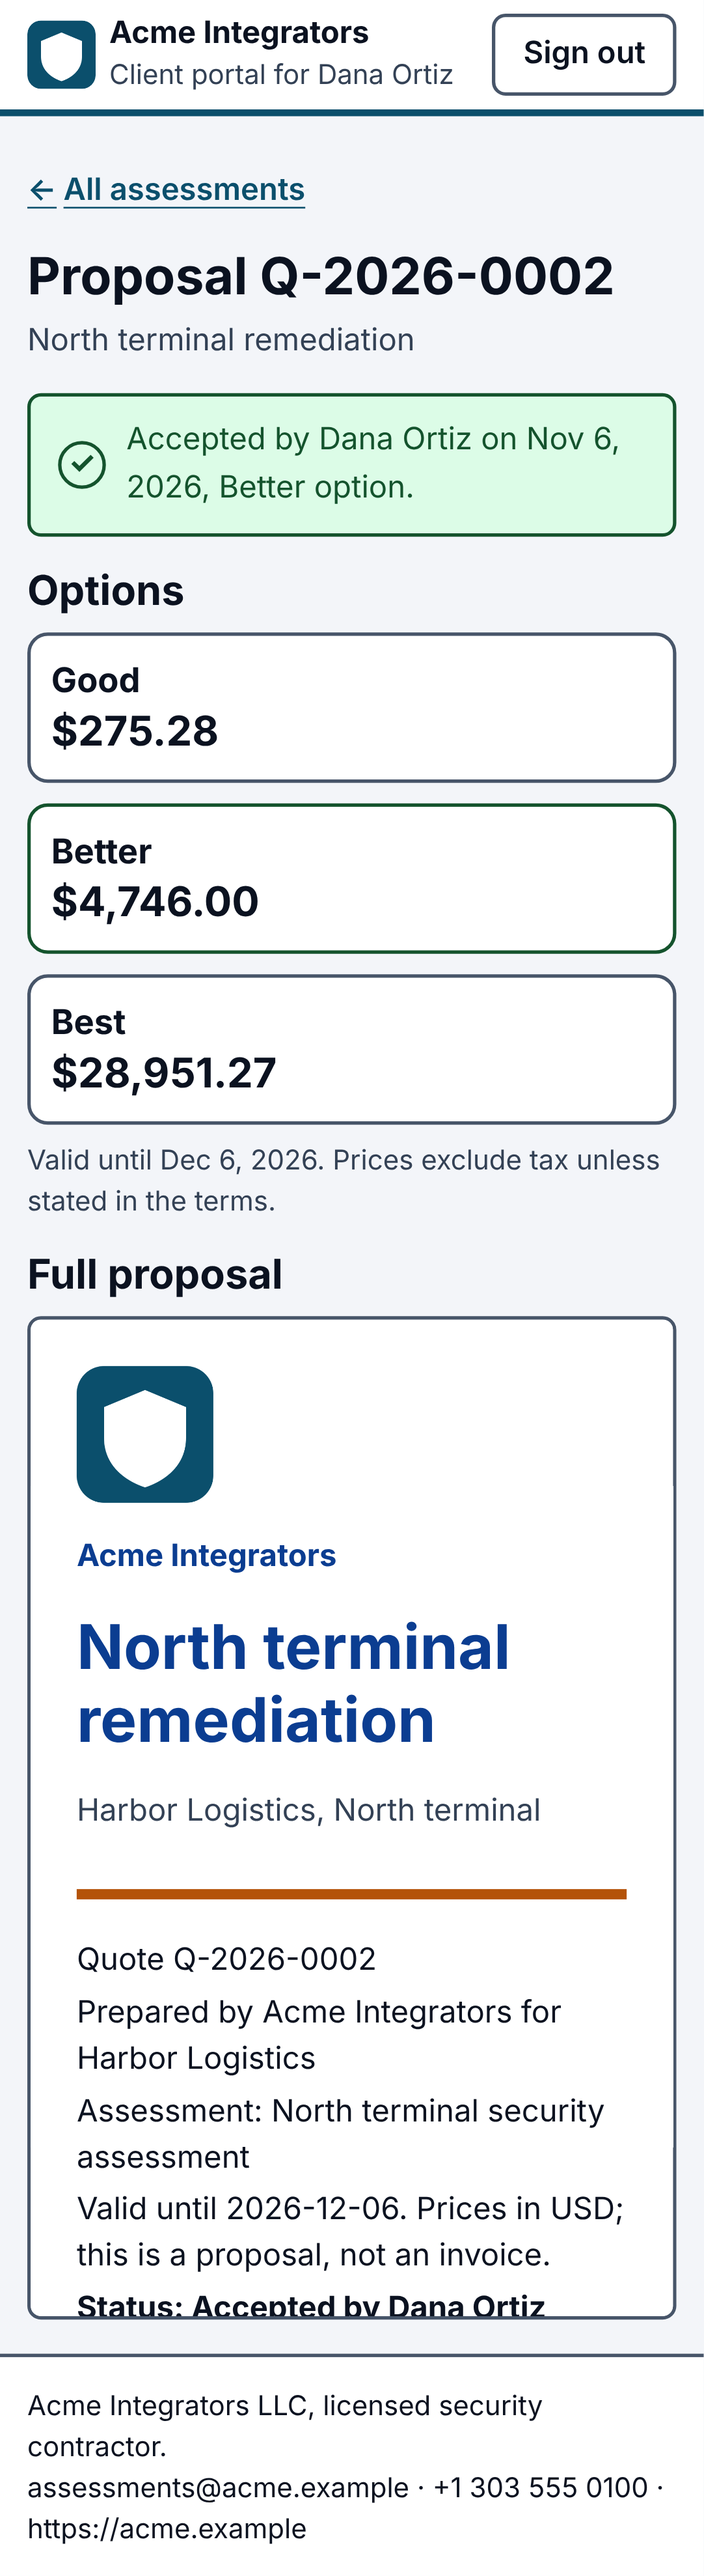
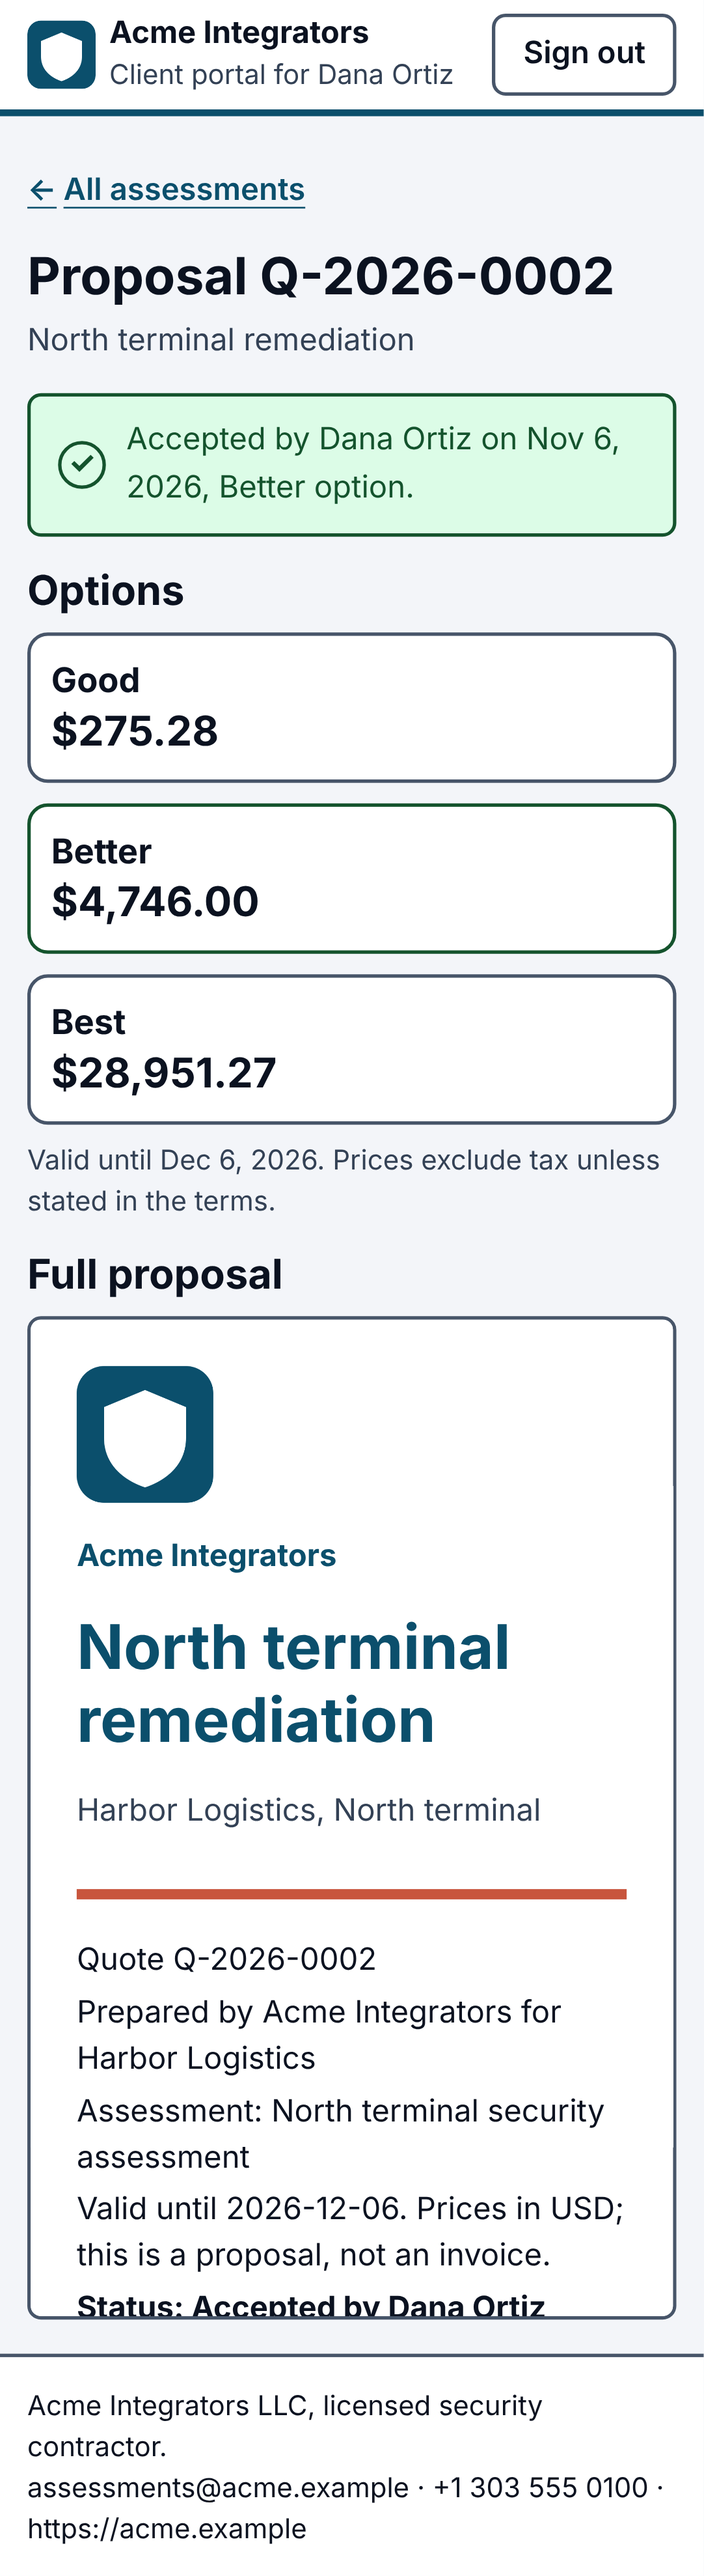
Fix brand colors in previews: defaults no longer override the theme
The preview stylesheet declared default brand variables on :root and is
linked after the brand theme, so defaults won. Defaults now use
:where(:root) (zero specificity). Verified in the running app: the
portal proposal title renders in the integrator's brand color.

Claude-Session: https://claude.ai/code/session_01HNa1ozX4GZGKmeVcuqB8ie

Changed region(s): [[0.0915, 0.5907, 0.732, 0.684], [0.122, 0.7151, 0.8845, 0.7462]]

diff --git a/apps/web/public/report-preview.css b/apps/web/public/report-preview.css
@@ -12,7 +12,7 @@ figure { margin: 1rem 0; }
 figcaption { color: #334155; font-size: 0.9rem; }
 
 /* Phase 4 branding: the server sets --brand-primary, --brand-accent, --brand-on-primary in a hashed <style> block. */
-:root { --brand-primary: #0b3d91; --brand-accent: #b45309; --brand-on-primary: #ffffff; }
+:where(:root) { --brand-primary: #0b3d91; --brand-accent: #b45309; --brand-on-primary: #ffffff; }
 h1, .report-title { color: var(--brand-primary); }
 .report-header { border-bottom: 6px solid var(--brand-accent); padding-bottom: 0.75rem; margin-bottom: 1.25rem; }
 .report-logo { max-width: 160px; max-height: 80px; border: 0; display: block; margin-bottom: 0.75rem; }
